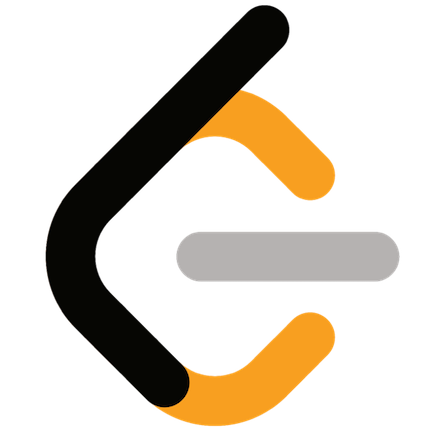
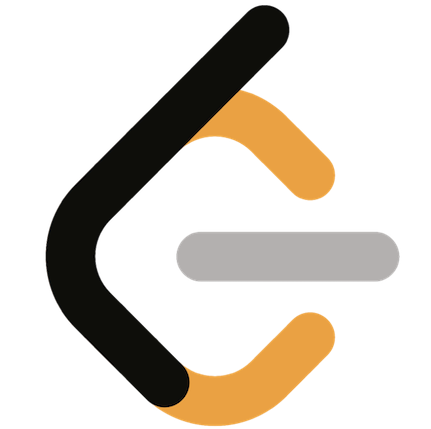
fix images for dark mode

Changed region(s): [[0.3619, 0.7273, 0.7842, 1.0], [0.4223, 0.2121, 0.7842, 0.4848]]

diff --git a/index.md b/index.md
@@ -58,7 +58,7 @@ GitHub and coding skills:
 
 <div class="icon is-large">
 	<a href="https://github.com/marcello-dev">
-		<img src="/img/gh.svg" alt="Github logo">
+		<img src="/img/gh.png" alt="Github logo">
 	</a>
 </div>
 
